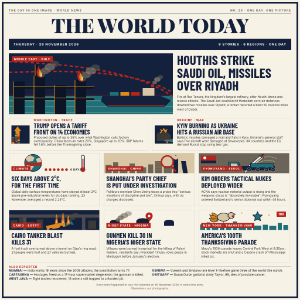
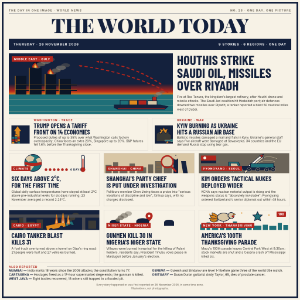
Move the Gulf scene onto explicit hero coordinates
- Rebuild the hero on a 560x296 viewBox with a y200 waterline and separated tanker.
- Keep pipes short of the hull and arrows above y190.

Changed region(s): [[0.03, 0.18, 0.6, 0.39], [0.03, 0.18, 0.09, 0.21]]

diff --git a/src/entry.html b/src/entry.html
@@ -60,41 +60,41 @@ svg text{font-family:Inter,Arial,sans-serif}
 
   <section class="hero" aria-label="Lead story">
     <div class="hero-art">
-      <svg viewBox="0 0 560 208" role="img" aria-label="Bold Gulf refinery and tanker poster beneath two missile arcs">
+      <svg viewBox="0 0 560 296" preserveAspectRatio="none" role="img" aria-label="Bold Gulf refinery and tanker poster beneath two missile arcs">
         <defs>
-          <linearGradient id="gulfSky" x1="0" y1="0" x2="0" y2="1"><stop offset="0" stop-color="#14213D"/><stop offset=".66" stop-color="#14213D"/><stop offset=".84" stop-color="#B3261E"/><stop offset="1" stop-color="#E08A1E"/></linearGradient>
+          <linearGradient id="gulfSky" x1="0" y1="0" x2="0" y2="1"><stop offset="0" stop-color="#14213D"/><stop offset=".5" stop-color="#14213D"/><stop offset=".62" stop-color="#B3261E"/><stop offset=".68" stop-color="#E08A1E"/><stop offset="1" stop-color="#E08A1E"/></linearGradient>
           <marker id="missileArrow" viewBox="0 0 10 10" refX="8" refY="5" markerWidth="10" markerHeight="10" orient="auto" markerUnits="userSpaceOnUse"><path d="M0 0 10 5 0 10Z" fill="#B3261E"/></marker>
         </defs>
-        <rect width="560" height="208" fill="url(#gulfSky)"/>
-        <rect y="146" width="560" height="62" fill="#1F6F78"/>
-        <g stroke="#D8C6A5" stroke-width="1.5" opacity=".65"><path d="M0 162H560"/><path d="M0 182H560"/><path d="M0 201H560"/></g>
-        <g fill="none" stroke="#B3261E" stroke-width="5" stroke-dasharray="11 8" marker-end="url(#missileArrow)"><path d="M560 148C470 82 302 38-10 28"/><path d="M552 130C452 72 278 52-16 66"/></g>
+        <rect width="560" height="296" fill="url(#gulfSky)"/>
+        <rect y="200" width="560" height="96" fill="#1F6F78"/>
+        <g stroke="#D8C6A5" stroke-width="1.5" opacity=".65"><path d="M0 224H560"/><path d="M0 254H560"/><path d="M0 284H560"/></g>
+        <g fill="none" stroke="#B3261E" stroke-width="5" stroke-dasharray="11 8" marker-end="url(#missileArrow)"><path d="M544 190Q410 90 240 60"/><path d="M520 150Q420 55 300 40"/></g>
         <g fill="#0B1526">
-          <rect x="16" y="96" width="38" height="112"/><rect x="86" y="78" width="38" height="130"/><rect x="156" y="108" width="40" height="100"/><rect x="226" y="92" width="38" height="116"/><rect x="90" y="38" width="10" height="40"/>
+          <rect x="22" y="110" width="38" height="90"/><rect x="70" y="70" width="42" height="130"/><rect x="124" y="100" width="38" height="100"/><rect x="172" y="125" width="40" height="75"/><rect x="84" y="30" width="14" height="40"/>
         </g>
-        <g fill="none" stroke="#0B1526" stroke-width="8"><path d="M16 156H292"/><path d="M16 117H292"/></g>
-        <g fill="none" stroke="#E08A1E" stroke-width="1"><path d="M16 152H292"/><path d="M16 113H292"/></g>
-        <g stroke="#E08A1E" stroke-width="2"><path d="M16 96V208"/><path d="M86 78V208"/><path d="M156 108V208"/><path d="M226 92V208"/><path d="M90 38V78"/></g>
+        <g fill="#0B1526"><rect x="22" y="150" width="210" height="6"/><rect x="22" y="176" width="210" height="6"/></g>
+        <g stroke="#E08A1E" stroke-width="1"><path d="M22 150H232"/><path d="M22 176H232"/></g>
+        <g stroke="#E08A1E" stroke-width="2"><path d="M22 110V200"/><path d="M70 70V200"/><path d="M124 100V200"/><path d="M172 125V200"/></g>
         <g>
-          <ellipse cx="110" cy="74" rx="13" ry="9" fill="#4A4A4F" opacity=".92"/><ellipse cx="124" cy="60" rx="16" ry="11" fill="#6B6459" opacity=".78"/><ellipse cx="140" cy="47" rx="18" ry="12" fill="#8A8578" opacity=".62"/><ellipse cx="156" cy="36" rx="16" ry="11" fill="#6B6459" opacity=".46"/>
-          <ellipse cx="250" cy="88" rx="13" ry="9" fill="#4A4A4F" opacity=".92"/><ellipse cx="264" cy="74" rx="16" ry="11" fill="#6B6459" opacity=".78"/><ellipse cx="280" cy="60" rx="18" ry="12" fill="#8A8578" opacity=".62"/><ellipse cx="296" cy="49" rx="16" ry="11" fill="#6B6459" opacity=".46"/>
+          <ellipse cx="96" cy="66" rx="12" ry="8" fill="#4A4A4F" opacity=".92"/><ellipse cx="110" cy="53" rx="15" ry="10" fill="#6B6459" opacity=".78"/><ellipse cx="126" cy="41" rx="17" ry="11" fill="#8A8578" opacity=".62"/><ellipse cx="142" cy="30" rx="15" ry="10" fill="#6B6459" opacity=".46"/>
+          <ellipse cx="148" cy="96" rx="12" ry="8" fill="#4A4A4F" opacity=".92"/><ellipse cx="162" cy="83" rx="15" ry="10" fill="#6B6459" opacity=".78"/><ellipse cx="178" cy="70" rx="17" ry="11" fill="#8A8578" opacity=".62"/><ellipse cx="194" cy="58" rx="15" ry="10" fill="#6B6459" opacity=".46"/>
         </g>
         <g>
-          <path d="M99 78c-8-10-4-22 3-36 2 13 12 21 13 33 1 6-8 8-16 3Z" fill="#B3261E"/>
-          <path d="M104 78c-5-8-2-17 2-25 3 9 8 15 8 23 0 5-5 6-10 2Z" fill="#E08A1E"/>
-          <path d="M108 78c-2-5 0-10 2-15 2 6 5 9 4 13-1 3-4 4-6 2Z" fill="#F4C77B"/>
-          <path d="M239 92c-9-11-5-23 1-36 3 13 13 21 14 33 1 7-7 9-15 3Z" fill="#B3261E"/>
-          <path d="M244 92c-6-9-3-18 1-26 3 9 9 14 9 22 0 6-5 7-10 4Z" fill="#E08A1E"/>
-          <path d="M248 92c-2-5 0-11 2-15 2 6 5 9 4 13-1 3-4 4-6 2Z" fill="#F4C77B"/>
+          <path d="M81 70C78 63 81 54 91 44c1 10 9 16 10 22v4H81Z" fill="#B3261E"/>
+          <path d="M85 70c-2-6 1-13 6-19 2 7 6 12 6 16v3H85Z" fill="#E08A1E"/>
+          <path d="M89 70c-1-4 0-8 2-12 2 4 3 8 3 12H89Z" fill="#F4C77B"/>
+          <path d="M133 100c-3-7 0-16 10-26 1 10 9 16 10 22v4h-20Z" fill="#B3261E"/>
+          <path d="M137 100c-2-6 1-13 6-19 2 7 6 12 6 16v3h-12Z" fill="#E08A1E"/>
+          <path d="M141 100c-1-4 0-8 2-12 2 4 3 8 3 12h-5Z" fill="#F4C77B"/>
         </g>
         <g stroke="#14213D" stroke-width="2" stroke-linejoin="round">
-          <path d="M320 146h196l36 15-20 20H338l-22-18Z" fill="#14213D"/>
-          <path d="M338 178H532" fill="none" stroke="#B3261E" stroke-width="3"/>
-          <path d="M456 117h42v29h-42Z" fill="#D8C6A5"/>
-          <path d="M485 105h12v12h-12Z" fill="#B3261E"/>
-          <rect x="344" y="131" width="32" height="15" fill="#1F6F78"/><rect x="380" y="131" width="32" height="15" fill="#E08A1E"/><rect x="416" y="131" width="32" height="15" fill="#B3261E"/>
+          <path d="M360 250h156l28 8-12 14H372l-12-8Z" fill="#14213D"/>
+          <path d="M372 268H532" fill="none" stroke="#B3261E" stroke-width="3"/>
+          <path d="M474 230h32v20h-32Z" fill="#D8C6A5"/>
+          <path d="M490 212h14v18h-14Z" fill="#B3261E"/>
+          <rect x="380" y="228" width="28" height="22" fill="#1F6F78"/><rect x="411" y="228" width="28" height="22" fill="#E08A1E"/><rect x="442" y="228" width="28" height="22" fill="#B3261E"/>
         </g>
-        <g><ellipse cx="498" cy="99" rx="8" ry="6" fill="#6B6459" opacity=".9"/><ellipse cx="507" cy="89" rx="11" ry="8" fill="#8A8578" opacity=".72"/><ellipse cx="518" cy="81" rx="9" ry="7" fill="#6B6459" opacity=".5"/></g>
+        <g><ellipse cx="503" cy="206" rx="8" ry="6" fill="#6B6459" opacity=".9"/><ellipse cx="512" cy="196" rx="11" ry="8" fill="#8A8578" opacity=".72"/><ellipse cx="523" cy="188" rx="9" ry="7" fill="#6B6459" opacity=".5"/></g>
       </svg>
       <div class="chip">MIDDLE EAST · GULF</div>
     </div>
